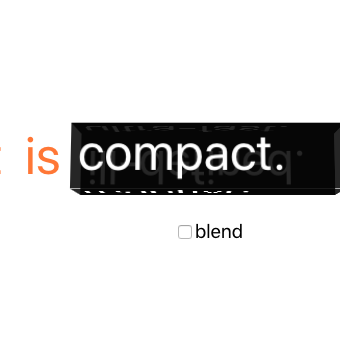
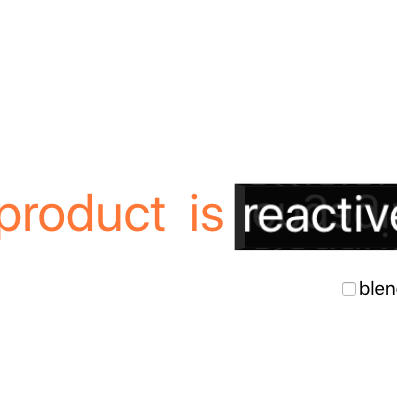
Adds description to TTT.

Changed region(s): [[0.0, 0.3529, 1.0, 0.7059], [0.8529, 0.7059, 1.0, 0.7647]]

diff --git a/src/views/TicTacToe.jsx b/src/views/TicTacToe.jsx
@@ -1,5 +1,6 @@
 import React, { Component } from 'react'
 import Board from '../components/tictactoe/Board'
+import Description from '../components/Description'
 import '../styles/TicTacToe.scss'
 
 export default class TicTacToe extends Component {
@@ -350,8 +351,24 @@ export default class TicTacToe extends Component {
             winSquares={win.combo}
             squares={squares}
             status={status}
-            moves={Moves} />
+            moves={Moves}/>
         </div>
+        <Description>
+          <p>
+            Tic-tac-toe (abbrev. TTT) is the quintessential Project 1 at coding bootcamp. When you first attempt it, you're amazed at how challenging it is to represent programmatically something that seems obvious intuitively. A child could play tic-tac-toe, right? So what exactly are you getting hung up on, you wonder. A litany of questions bounce around your head on the day it's assigned. Do you represent a board as a 1- or 2D array? How exactly do you render it in html/css? How do players alternate turns? Is there a simple algorithm to deal with win/lose/tie scenarios? It all feels pretty daunting at first, but as you code you get more comfortable testing out ideas and more discerning at knowing what to pursue and what to abandon.
+          </p>
+          <p>
+            When I first completed TTT, I was earnestly proud until I found out that another student (who I've since come to really adore) showed me his version, which was not only aesthetically pleasing (with perfect colors and a special font and everything all aligned and such) but allowed you to <i>play against the computer</i> with different difficulty settings. "Against the computer"? WTF?? Isn't this your first coding class? He told me that he had seen the assignment two weeks before the course started and had been working on it since then, which made me feel a <i>little</i> better, but still... Thankfully he was kind enough to walk me through the algorithm. It is known as the <i>minimax</i> algorithm, and really isn't too confusing—that is, once you stare at it for an hour or so.
+          </p>
+          <h2>Minimax</h2>
+          <p>
+            Minimax (abbrev. MM) is a recursive backtracking algorithm that tests out certain moves and assigns values to those moves based on whether they result in a win or loss down the line. In order for it to work, the 
+          </p>
+          <div className="divider"/>
+          <p>
+            By the time the assignment was due I was sure I knew how to make it work, but we were already moving on to new material, so I put it aside for the time being. But not too long ago, while going Facebook's React tutorial, which has you writing TTT the React way, I thought I might finally give it another go.
+          </p>
+        </Description>
       </div>
     )
   }

diff --git a/src/styles/Description.scss b/src/styles/Description.scss
@@ -2,7 +2,7 @@
   display: flex;
   flex-wrap: wrap;
   justify-content: space-between;
-  font-size: 1.5em;
+  font-size: 1.6em;
   font-family: Georgia, serif;
   .small-list {
     margin: 5px 0;
@@ -24,6 +24,10 @@
     line-height: 1.5em;
     margin-bottom: 20px;
   }
+  h2 {
+    margin-bottom: 0;
+    color: #1c2644d6;
+  }
   ol {
     margin: 0;
     li {
@@ -38,5 +42,10 @@
   }
   .center {
     text-align: center;
+  }
+  .divider {
+    background-color: #3434344a;
+    height: 4px;
+    width: 26%;
   }
 }

diff --git a/src/views/Rotator.jsx b/src/views/Rotator.jsx
@@ -9,17 +9,11 @@ const ADJECTIVES = [
   'ultra-fast',
   'reactive',
   'monadic',
-  'actionable',
   'innovative',
   'elegant',
-  'meaningful',
   'efficient',
-  'engaging',
   'immersive',
-  'influential',
   'smart',
-  'personal',
-  'ill-defined',
 ]
 
 export default class Rotator extends Component {

diff --git a/src/views/SpinningCube.jsx b/src/views/SpinningCube.jsx
@@ -1,5 +1,4 @@
 import React, { Component } from 'react'
-import { ChromePicker } from 'react-color'
 import ColorPicker from '../components/ColorPicker'
 import DiCube from '../components/DiCube'
 import Description from '../components/Description'

diff --git a/src/styles/Life.scss b/src/styles/Life.scss
@@ -2,6 +2,7 @@
 .CGOL {
   h1 {
     text-align: center;
+    font-size: 2.5em;
   }
   /* The petri dish that is Life */
   .Life {
